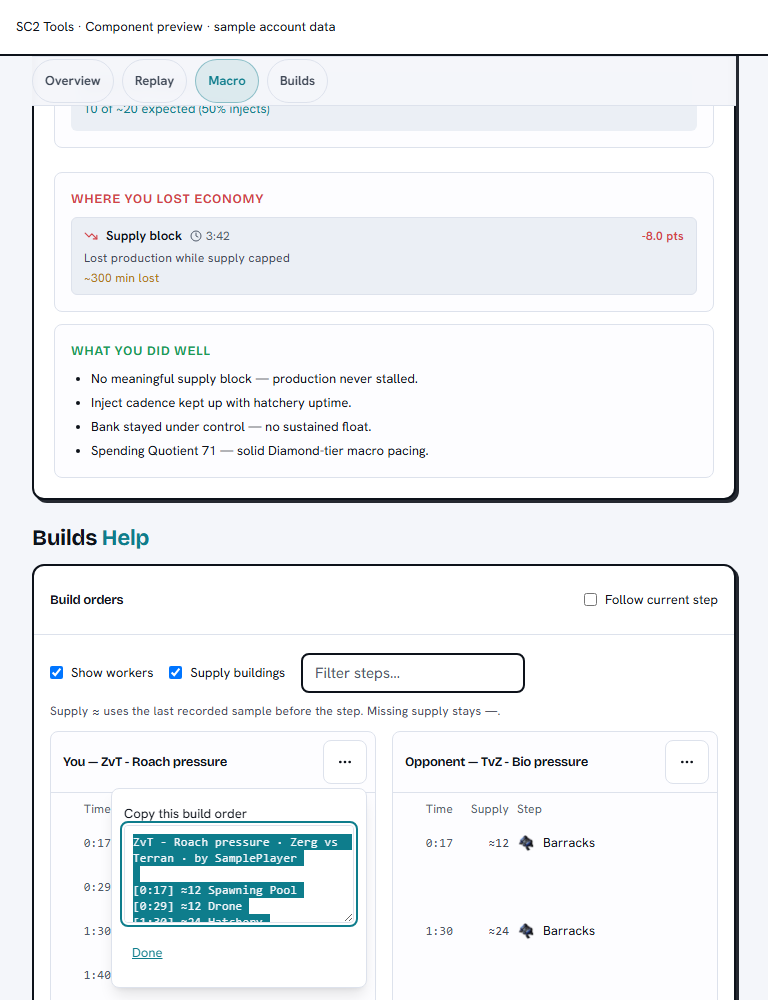
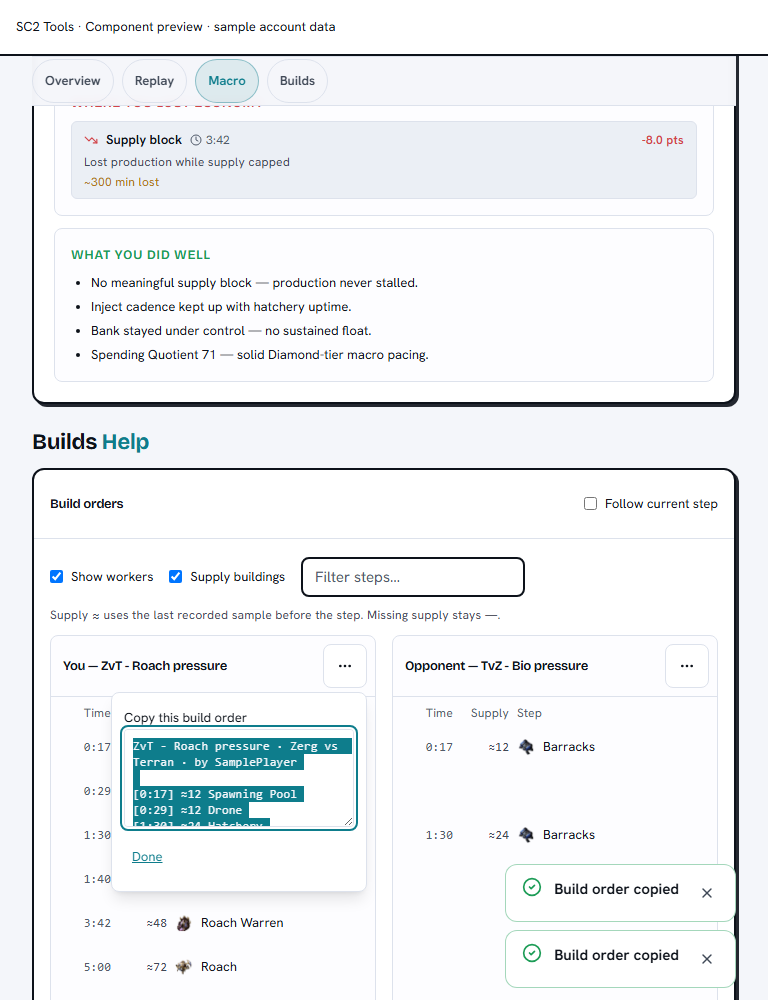
fix(builds): keep export feedback and canonical filters reliable

diff --git a/apps/web/components/builds/BuildExportMenu.tsx b/apps/web/components/builds/BuildExportMenu.tsx
@@ -1,6 +1,6 @@
 "use client";
 
-import { useEffect, useId, useRef, useState, type ReactNode } from "react";
+import { useCallback, useEffect, useId, useRef, useState, type ReactNode } from "react";
 import { createPortal } from "react-dom";
 import { MoreHorizontal } from "lucide-react";
 import type { BuildExportMeta, ExportStep } from "@/lib/gameExport";
@@ -17,13 +17,17 @@ export function BuildExportMenu({ steps, meta, rules = [], extraActions }: {
   const [message, setMessage] = useState("");
   const [skipped, setSkipped] = useState<string[]>([]);
   const [printText, setPrintText] = useState("");
+  const operation = useRef(0);
+  const cancelOperation = useCallback(() => { operation.current++; }, []);
+  const clearFeedback = useCallback(() => { cancelOperation(); setFallback(""); setMessage(""); setSkipped([]); setPrintText(""); }, [cancelOperation]);
+  const dismiss = useCallback(() => { clearFeedback(); if (root.current) root.current.open = false; }, [clearFeedback]);
   const toast = useToastOptional();
   const absoluteMeta = () => ({ ...meta, sourceUrl: new URL(meta.sourceUrl, window.location.origin).href });
   useEffect(() => {
-    const outside = (event: PointerEvent) => { if (root.current && !root.current.parentElement?.contains(event.target as Node)) { root.current.open = false; setFallback(""); setMessage(""); setSkipped([]); } };
+    const outside = (event: PointerEvent) => { if (root.current && !root.current.parentElement?.contains(event.target as Node)) dismiss(); };
     document.addEventListener("pointerdown", outside);
-    return () => document.removeEventListener("pointerdown", outside);
-  }, []);
+    return () => { document.removeEventListener("pointerdown", outside); cancelOperation(); };
+  }, [dismiss, cancelOperation]);
   useEffect(() => { if (fallback) { fallbackInput.current?.focus(); fallbackInput.current?.select(); } }, [fallback]);
   useEffect(() => {
     if (!printText) return;
@@ -31,24 +35,25 @@ export function BuildExportMenu({ steps, meta, rules = [], extraActions }: {
     return () => cancelAnimationFrame(frame);
   }, [printText]);
   const copy = async (kind: "text" | "supply" | "markdown" | "salt" | "print") => {
+    const ticket = ++operation.current, current = () => ticket === operation.current;
     setMessage(""); setFallback(""); setSkipped([]);
     try {
-      const format = await import("@/lib/gameExport"); const metadata = absoluteMeta();
+      const format = await import("@/lib/gameExport"); if (!current()) return; const metadata = absoluteMeta();
       let text: string;
       if (kind === "salt") { const result = format.buildToSalt(steps, metadata); text = result.salt; setSkipped(result.skipped); }
       else if (kind === "markdown") text = format.buildToMarkdownTable(steps, metadata, rules);
       else text = format.buildToText(kind === "print" ? steps.slice().sort((a, b) => a.time - b.time).slice(0, 60) : steps, metadata, kind === "supply" ? "supply-clock" : "clock", rules);
       if (kind === "print") { setPrintText(text + (steps.length > 60 ? `\n\nFirst 60 of ${steps.length} steps. Copy build order includes every step.` : "")); return; }
-      try { await navigator.clipboard.writeText(text); setMessage("Copied"); toast?.toast.success("Build order copied"); }
-      catch { setFallback(text); }
-    } catch { setMessage("Couldn't prepare this export. Please try again."); }
+      try { await navigator.clipboard.writeText(text); if (current()) { setMessage("Copied"); toast?.toast.success("Build order copied"); } }
+      catch { if (current()) setFallback(text); }
+    } catch { if (current()) setMessage("Couldn't prepare this export. Please try again."); }
   };
   const buttonClass = "block min-h-11 w-full rounded px-3 py-2 text-left text-caption text-text hover:bg-bg-elevated focus-visible:outline-none focus-visible:ring-2 focus-visible:ring-accent disabled:opacity-50";
   return <div className="relative flex-none" onKeyDown={event => {
-    if (event.key === "Escape") { event.stopPropagation(); if (root.current) root.current.open = false; setFallback(""); setMessage(""); setSkipped([]); trigger.current?.focus(); }
+    if (event.key === "Escape") { event.stopPropagation(); dismiss(); trigger.current?.focus(); }
   }}>
     <details ref={root} className="relative">
-      <summary ref={trigger} onClick={() => { setFallback(""); setMessage(""); setSkipped([]); }} aria-label={`Build actions for ${meta.title}`} className="inline-flex min-h-11 min-w-11 cursor-pointer list-none items-center justify-center rounded-lg border border-border bg-bg-surface px-2 text-text focus-visible:outline-none focus-visible:ring-2 focus-visible:ring-accent [&::-webkit-details-marker]:hidden"><MoreHorizontal className="h-4 w-4" aria-hidden /></summary>
+      <summary ref={trigger} onClick={clearFeedback} aria-label={`Build actions for ${meta.title}`} className="inline-flex min-h-11 min-w-11 cursor-pointer list-none items-center justify-center rounded-lg border border-border bg-bg-surface px-2 text-text focus-visible:outline-none focus-visible:ring-2 focus-visible:ring-accent [&::-webkit-details-marker]:hidden"><MoreHorizontal className="h-4 w-4" aria-hidden /></summary>
       <div role="group" aria-label={`Export ${meta.title}`} className="absolute right-0 z-30 mt-1 w-56 max-w-[calc(100vw-2rem)] rounded-lg border border-border bg-bg-surface p-1 shadow-lg" onClickCapture={event => {
         if ((event.target as Element).closest("button")) { if (root.current) root.current.open = false; trigger.current?.focus(); }
       }}>
@@ -64,7 +69,7 @@ export function BuildExportMenu({ steps, meta, rules = [], extraActions }: {
       {message ? <p role="status" className="text-caption text-text-muted">{message}</p> : null}
       {skipped.length ? <div role="status" className="text-caption text-text-muted"><p>SALT skipped {skipped.length} {skipped.length === 1 ? "step" : "steps"}:</p><ul className="list-inside list-disc">{skipped.map((name, index) => <li key={`${name}:${index}`}>{name}</li>)}</ul></div> : null}
       {fallback ? <div><label htmlFor={id} className="text-caption">Copy this build order</label><textarea ref={fallbackInput} id={id} readOnly value={fallback} rows={5} className="block w-full min-w-0 rounded border border-border bg-bg-surface p-2 font-mono text-micro text-text" onFocus={event => event.currentTarget.select()} /></div> : null}
-      <button type="button" className="min-h-11 rounded px-2 text-caption text-accent underline focus-visible:ring-2 focus-visible:ring-accent" onClick={() => { setFallback(""); setMessage(""); setSkipped([]); trigger.current?.focus(); }}>Done</button>
+      <button type="button" className="min-h-11 rounded px-2 text-caption text-accent underline focus-visible:ring-2 focus-visible:ring-accent" onClick={() => { dismiss(); trigger.current?.focus(); }}>Done</button>
     </div> : null}
     {printText && typeof document !== "undefined" ? createPortal(<section data-build-print-sheet className="hidden"><h1>{meta.title}</h1><p>{meta.matchup || "Any matchup"} · by {meta.author || "Anonymous"}</p><pre>{printText.split("\n").slice(2).join("\n")}</pre></section>, document.body) : null}
   </div>;

diff --git a/apps/web/components/builds/BuildExportMenu.test.tsx b/apps/web/components/builds/BuildExportMenu.test.tsx
@@ -1,4 +1,4 @@
-import { cleanup, fireEvent, render, screen, waitFor } from "@testing-library/react";
+import { act, cleanup, fireEvent, render, screen, waitFor } from "@testing-library/react";
 import { afterEach, describe, expect, it, vi } from "vitest";
 import { BuildExportMenu } from "./BuildExportMenu";
 import { SavedBuildExportMenu } from "./SavedBuildExportMenu";
@@ -8,6 +8,17 @@ const steps = [{ time: 17, name: "Pylon", supply: 14 }, { time: 42, name: "Gatew
 function open() { const summary = screen.getByLabelText("Build actions for Gate expand"); (summary.closest("details") as HTMLDetailsElement).open = true; return summary; }
 afterEach(() => { cleanup(); vi.restoreAllMocks(); });
 describe("build actions", () => {
+  it.each(["Escape", "outside"])("keeps focus after %s dismisses a pending clipboard permission request", async dismiss => {
+    let reject!: (error: Error) => void;
+    const pending = new Promise<void>((_resolve, fail) => { reject = fail; });
+    const writeText = vi.fn(() => pending); Object.defineProperty(navigator, "clipboard", { configurable: true, value: { writeText } });
+    render(<><BuildExportMenu steps={steps} meta={meta} /><button type="button">Another control</button></>);
+    const summary = open(); fireEvent.click(screen.getByRole("button", { name: "Copy build order" })); await waitFor(() => expect(writeText).toHaveBeenCalledOnce());
+    const next = screen.getByRole("button", { name: "Another control" });
+    if (dismiss === "Escape") fireEvent.keyDown(summary, { key: "Escape" }); else fireEvent.pointerDown(next);
+    next.focus(); await act(async () => { reject(new Error("denied later")); await Promise.resolve(); });
+    expect(screen.queryByRole("textbox", { name: "Copy this build order" })).toBeNull(); expect(document.activeElement).toBe(next);
+  });
   it("copies actual formatted steps with absolute attribution and returns focus", async () => {
     const writeText = vi.fn().mockResolvedValue(undefined); Object.defineProperty(navigator, "clipboard", { configurable: true, value: { writeText } });
     render(<BuildExportMenu steps={steps} meta={meta} />); const summary = open();

diff --git a/apps/web/components/analyzer/game/__tests__/BuildOrderColumns.test.tsx b/apps/web/components/analyzer/game/__tests__/BuildOrderColumns.test.tsx
@@ -14,6 +14,13 @@ vi.mock("next/image", () => ({
 afterEach(() => cleanup());
 
 describe("BuildOrderColumns", () => {
+  it("uses canonical entities when filtering prefixed or spaced workers and supply buildings", () => {
+    render(<BuildOrderColumns myEvents={[{ time: 10, name: "TrainSCV" }, { time: 20, name: "BuildSupplyDepot" }, { time: 30, name: "Supply Depot" }]} workspace={{ myMeta: { title: "Mine", sourceUrl: "/g" }, oppMeta: { title: "Theirs", sourceUrl: "/g" } }} />);
+    const mine = within(screen.getByTestId("build-column-me"));
+    expect(mine.queryByTitle("TrainSCV")).toBeNull(); expect(mine.getByTitle("BuildSupplyDepot")).toBeTruthy(); expect(mine.getByTitle("Supply Depot")).toBeTruthy();
+    fireEvent.click(screen.getByRole("checkbox", { name: "Show workers" })); expect(mine.getByTitle("TrainSCV")).toBeTruthy();
+    fireEvent.click(screen.getByRole("checkbox", { name: "Supply buildings" })); expect(mine.queryByTitle("BuildSupplyDepot")).toBeNull(); expect(mine.queryByTitle("Supply Depot")).toBeNull();
+  });
   it("filters both workspace columns and shows prior measured supply without future guesses", () => {
     const seek = vi.fn();
     render(<BuildOrderColumns onSeek={seek} myEvents={[{ time: 1, name: "Pylon" }, { time: 30, name: "Probe" }, { time: 40, name: "Gateway" }, { time: 40, name: "Zealot", supply: 19 }]} oppEvents={[{ time: 40, name: "Marine" }]} workspace={{ myMeta: { title: "Mine", sourceUrl: "/g" }, oppMeta: { title: "Theirs", sourceUrl: "/g" }, myStats: [{ time: 20, food_used: 17 }], oppStats: [{ time: 60, food_used: 25 }] }} />);

diff --git a/apps/web/components/analyzer/game/GhostGradeCard.tsx b/apps/web/components/analyzer/game/GhostGradeCard.tsx
@@ -250,12 +250,12 @@ export function GhostGradeCard({
  * one click.
  */
 export function ArmGhostFromLogButton(props: {
-  name: string; lines: ReadonlyArray<string>; myRace?: string | null; opponentRace?: string | null; gameId?: string;
+  name: string; lines: ReadonlyArray<string>; myRace?: string | null; opponentRace?: string | null; gameId?: string; className?: string;
 }) {
   const ghost = useArmGhostTarget(props);
   const random = ["r", "random"].includes((props.opponentRace || "").toLowerCase());
   return <>
-    <Button variant="ghost" size="sm" onClick={ghost.armed ? ghost.disarm : ghost.arm}
+    <Button variant="ghost" size="sm" className={props.className} onClick={ghost.armed ? ghost.disarm : ghost.arm}
       aria-label={ghost.armed ? `Armed for ${ghost.matchup} · Disarm` : ghost.matchup ? "Use as Ghost Build target" : undefined}
       disabled={!ghost.matchup} iconLeft={<Crosshair className="h-4 w-4" aria-hidden />}
       title={random ? "Ghost Build is disabled against Random opponents" : ghost.matchup

diff --git a/apps/web/lib/__tests__/gameExport.test.ts b/apps/web/lib/__tests__/gameExport.test.ts
@@ -21,6 +21,7 @@ describe("build export formats", () => {
     const result = buildToSalt([...steps, { time: 80, name: "ShieldBattery", supply: 20 }, { time: 90, name: "Marine", supply: 150 }, { time: 5700, name: "Pylon", supply: 14 }], meta);
     expect(result.salt).toBe('$Gate expand  PvZ|Reaver|https://sc2tools.com/community/builds/gate|~* 1 ;, J 8');
     expect(result.skipped).toEqual(["Marine — supply is outside 5–98", "Pylon — time exceeds 94:59", "ShieldBattery"]);
+    expect(buildToSalt([{ time: 60, name: "Marine", count: 201 }], meta).skipped).toEqual(["201× Marine — count is outside 1–200 whole steps"]);
   });
   it("uses prior supply, keeps exact/fractional/zero values and leaves pre-sample steps unknown", () => {
     const input = [{ time: 1, name: "A" }, { time: 10, name: "B" }, { time: 20, name: "C", supply: 17 }];

diff --git a/apps/web/components/analyzer/game/BuildWorkspaceActions.tsx b/apps/web/components/analyzer/game/BuildWorkspaceActions.tsx
@@ -11,7 +11,7 @@ export function BuildWorkspaceActions({ events, name, race, vsRace, gameId, oppo
 }) {
   const rows = normalizeBuildEvents(events);
   return <div className="flex flex-col items-stretch gap-1">
-    {ghost ? <ArmGhostFromLogButton name={name} lines={rows.map(row => `[${row.timeDisplay}] ${row.rawName}`)} myRace={race} opponentRace={vsRace} gameId={gameId} /> : null}
+    {ghost ? <ArmGhostFromLogButton name={name} lines={rows.map(row => `[${row.timeDisplay}] ${row.rawName}`)} myRace={race} opponentRace={vsRace} gameId={gameId} className="min-h-11 w-full justify-start" /> : null}
     <SaveAsBuildButton rows={rows} events={events} race={coerceRace(race)} vsRace={coerceVsRace(vsRace)} perspective={opponent ? "opponent" : "you"} defaultName={name} gameId={gameId} className="min-h-11 w-full" />
   </div>;
 }

diff --git a/apps/web/components/analyzer/game/BuildOrderColumns.tsx b/apps/web/components/analyzer/game/BuildOrderColumns.tsx
@@ -50,7 +50,10 @@ const CATEGORY_DOT: Record<string, string> = {
 
 function visibleRows(rows: BuildEventRow[], workers: boolean, supplyBuildings: boolean, filter: string) {
   const query = filter.trim().toLowerCase();
-  return rows.filter(row => (workers || !/^(scv|drone|probe)$/i.test(row.rawName)) && (supplyBuildings || !/^(pylon|supplydepot(?:lowered)?|overlord)$/i.test(row.rawName)) && `${row.displayName} ${row.rawName}`.toLowerCase().includes(query));
+  return rows.filter(row => {
+    const entity = (row.iconName || row.rawName).replace(/[^a-z0-9]/gi, "").toLowerCase();
+    return (workers || !/^(scv|drone|probe)$/.test(entity)) && (supplyBuildings || !/^(pylon|supplydepot(?:lowered)?|overlord)$/.test(entity)) && `${row.displayName} ${row.rawName}`.toLowerCase().includes(query);
+  });
 }
 
 /**

diff --git a/apps/web/app/globals.css b/apps/web/app/globals.css
@@ -3,9 +3,9 @@
 @tailwind utilities;
 
 @media print {
-  @page { size: A4; margin: 12mm; }
+  @page build-cheat-sheet { size: A4; margin: 12mm; }
   body:has([data-build-print-sheet]) > *:not([data-build-print-sheet]) { display: none !important; }
-  [data-build-print-sheet] { display: block !important; color: #000; background: #fff; font: 11px/1.4 sans-serif; }
+  [data-build-print-sheet] { page: build-cheat-sheet; display: block !important; color: #000; background: #fff; font: 11px/1.4 sans-serif; }
   [data-build-print-sheet] h1 { margin: 0 0 4mm; font-size: 18px; }
   [data-build-print-sheet] p { margin: 0 0 5mm; }
   [data-build-print-sheet] pre { white-space: pre-wrap; overflow-wrap: anywhere; columns: 2; column-gap: 8mm; font: 10px/1.4 monospace; }

diff --git a/apps/web/components/analyzer/game/GameDetailPage.tsx b/apps/web/components/analyzer/game/GameDetailPage.tsx
@@ -314,6 +314,7 @@ function GameDetailContent({
         myAction={
           buildLogLines && buildLogLines.length > 0 ? (
             <ArmGhostFromLogButton
+              className="min-h-11 w-full justify-start"
               gameId={game.gameId}
               name={
                 checkinBuild?.label ?? buildReq.data?.my_build

diff --git a/docs/handoff/build-exports-checkpoint.md b/docs/handoff/build-exports-checkpoint.md
@@ -14,9 +14,9 @@ Scope: Wave3 `build-order-supply-export`, including both augments. No AI feature
 
 ## Validation so far
 
-- API:58 tests/2suites; full API types passed before final main integration.
-- Web:210 assertions/34actual consumer/formatter suites pass. Full types and strict changed-file lint pass.
-- Exact CI env production build and all unchanged budgets pass at the earlier implementation: landing213.4/215, app235.1/240, game313.1/440, opponent487.5/500, guide171.7/175, community182.4/190kB. Final source/integration build remains required before PR.
--39 real component browser checks at390/768/1440 with production CSS: prior supply/filtering, aligned scrolling/rows (also after clipboard denial), copy text/Markdown, rules-only output, real CSV/JSON downloads, one-page PDF print capture, no overflow or JS errors. Synthetic auth/API/Next boundaries; no live account tests or production writes.
+- API:59tests/2suites and full API types pass after main72b345d0 integration, including the Archon completion regression.
+- Web:213 assertions/34actual consumer/formatter suites pass. Another99Help/Ghost/formatter checks pass (counts overlap). Full types and strict changed-file lint pass.
+- Final reviewed feature source: exact CI env production build and all unchanged budgets pass: landing213.4/215, app235.1/240, game313.1/440, opponent487.5/500, guide171.7/175, community182.4/190kB.
+-65 real component browser checks at320/390/768/1440 with production CSS: prior supply/filtering, aligned scrolling/rows (also after clipboard denial), copy text/Markdown, deferred permission denial after dismissal without focus theft, rules-only and actual Community toolbar exports, real CSV/JSON downloads, one-page PDF print capture, actual Ghost replacement/Undo and the real Save-as-new-build editor. No overflow or JS errors. Synthetic auth/API/Next boundaries; no live account tests or production writes.
 - Reproduce after a production build from apps/web: `node tests/manual/build-exports.cjs`. It writes ignored .tmp fixtures/downloads/PDFs and screenshot evidence. Playwright Chromium must be available. Print-dialog invocation is captured locally and its actual HTML/CSS is rendered to PDF; this does not exercise a physical printer.
-- Screenshots: `docs/handoff/screenshots/build-exports-390.png`, `build-exports-1440.png`, and matching print captures. Final docs/tests/build/root integration and remote CI still pending; this file is a progress checkpoint, not a completion claim.
+- Screenshots: `docs/handoff/screenshots/build-exports-390.png`, `build-exports-1440.png`, and matching print captures. Independent review found canonical worker/depot filtering and delayed clipboard focus races; both are repaired with regression tests. Final main integration and exact-head remote CI remain required before merge.
